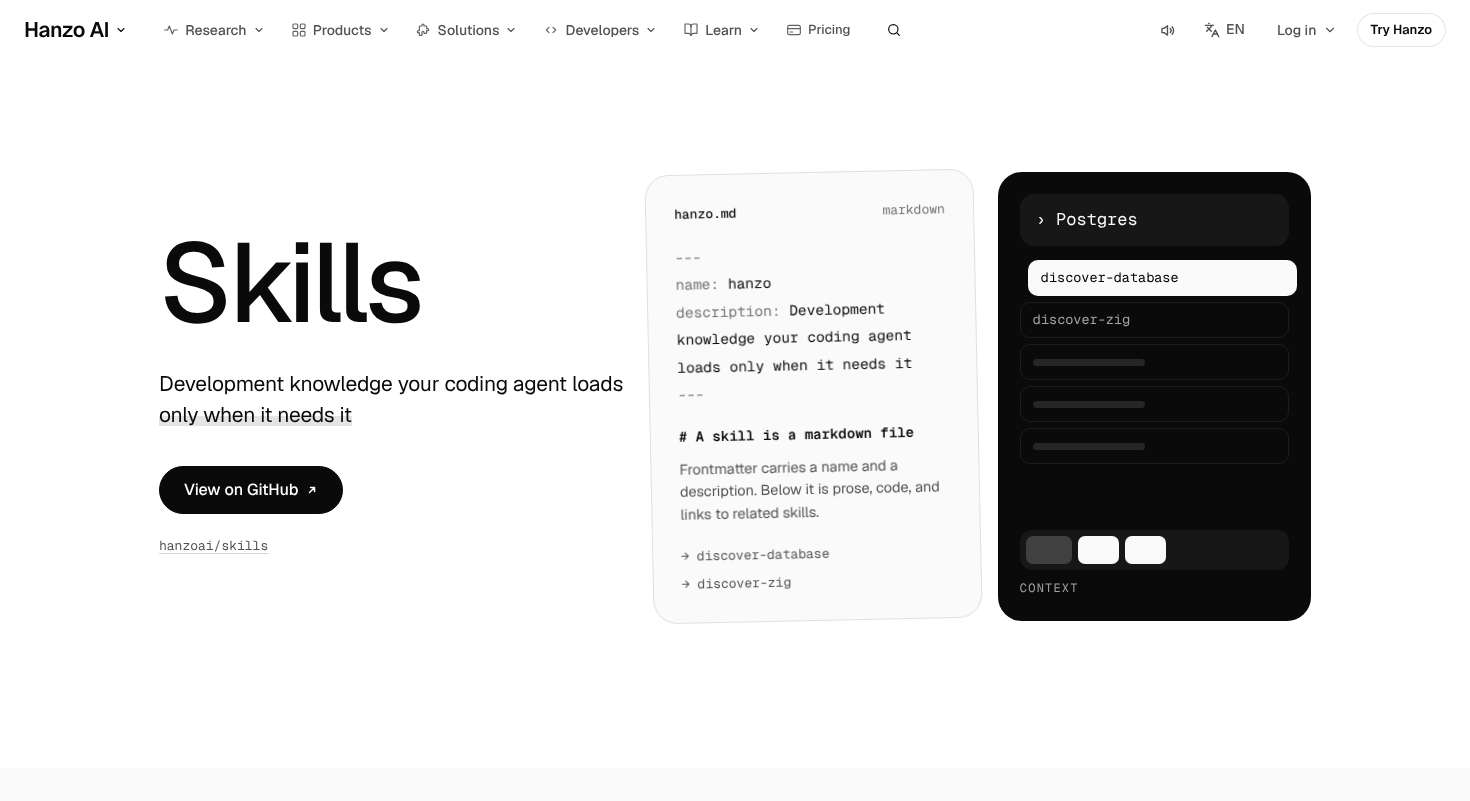
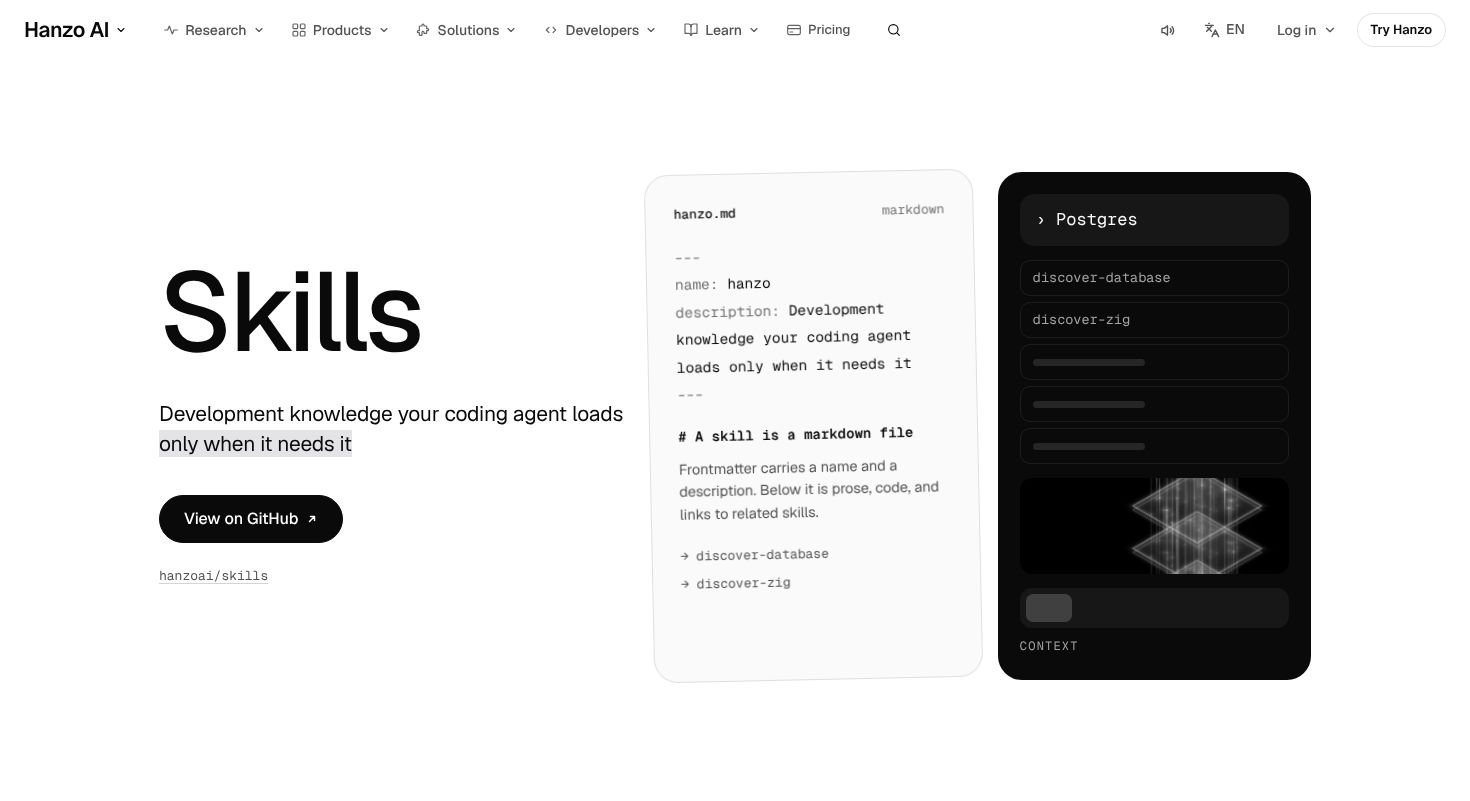
skills: Ready — copycheck missing 0 of 22: sentences unbroken (highlight via CSS Custom Highlight API, sweep kept), install line as written; Hanzo's Kai hero picture restored in the agent panel
Claude-Session: https://claude.ai/code/session_01P5YBdxX2mH7piDf4NGrmPi

diff --git a/components/pages/Skills.jsx b/components/pages/Skills.jsx
@@ -103,6 +103,7 @@ function Wake() {
       <div className="xsk-agent">
         <div className="xsk-say x-mono"><span className="xsk-caret-k">›</span><span ref={typed}>{WAKE[w][0]}</span><b className="xsk-caret" /></div>
         <Shelf lit={phase >= 1 ? gate : null} />
+        <span className="xsk-kai"><img src="/models/kai.webp" alt="" width="1200" height="1500" decoding="async" /></span>
         <Tray pulled={phase >= 2} k={String(w)} />
       </div>
     </div>
@@ -145,7 +146,7 @@ function Hero() {
       <div className="a2-wrap a2-grid xsk-hero-grid">
         <div className="xsk-hero-copy">
           <motion.div className="xsk-h1-set" style={{ scale: settle }}><Lines as="h1" id="xsk-h1" className="a2-display xsk-h1" lines={['Skills']} now /></motion.div>
-          <p className="a2-lede">Development knowledge your coding agent loads <mark>only when it needs it</mark></p>
+          <Para className="a2-lede" parts={['Development knowledge your coding agent loads ', { h: 'only when it needs it' }]} />
           <div className="a2-acts"><A to={GH} className="x-btn solid xsk-ask" data-thumb="View on GitHub" data-cta="skills.hero">View on GitHub<Arw /></A></div>
           <p className="xsk-repo-cap x-mono"><A to={GH} className="xsk-repo">hanzoai/skills</A></p>
         </div>
@@ -181,20 +182,45 @@ function Trade() {
 /* The five points on the stage: the words scroll past on the left, one pinned panel on the right shows each one's object.
    The thread point (Hanzo's "Cross-referenced, not duplicated") lives in the dark room after the stage, told once. */
 const POINTS = [
-  ['A skill is a markdown file', <>Frontmatter carries a name and a description. Below it is prose, code, and links to related skills. <Hl>Nothing to compile, nothing to run</Hl> — you can read one before you trust it.</>],
-  ['Gateway skills do the finding', <>A gateway is a small skill whose whole job is to notice. Say Postgres and discover-database wakes up; say comptime and discover-zig does. <Hl>It pulls the specific files and gets out of the way.</Hl></>],
-  ['Install it in one line', <><code>{CMD}</code> adds the Hanzo skill to your agent, and <Hl>hanzoskills.com/llms.txt lists every other one as plain markdown.</Hl></>],
-  ['Written small on purpose', <>One topic per file, a few hundred lines each. <Hl>Five focused reads cost less than one monolithic guide</Hl>, and you get the five that matter instead of the one that covers everything badly.</>],
-  ['Add your own', <>Drop a markdown file in a category, give it a name and a description, and it joins discovery. <Hl>Your house conventions load the same way the public ones do.</Hl></>],
+  ['A skill is a markdown file', ['Frontmatter carries a name and a description. Below it is prose, code, and links to related skills. ', { h: 'Nothing to compile, nothing to run' }, ' — you can read one before you trust it.']],
+  ['Gateway skills do the finding', ['A gateway is a small skill whose whole job is to notice. Say Postgres and discover-database wakes up; say comptime and discover-zig does. ', { h: 'It pulls the specific files and gets out of the way.' }]],
+  ['Install it in one line', [{ c: CMD }, ' adds the Hanzo skill to your agent, and ', { h: 'hanzoskills.com/llms.txt lists every other one as plain markdown.' }]],
+  ['Written small on purpose', ['One topic per file, a few hundred lines each. ', { h: 'Five focused reads cost less than one monolithic guide' }, ', and you get the five that matter instead of the one that covers everything badly.']],
+  ['Add your own', ['Drop a markdown file in a category, give it a name and a description, and it joins discovery. ', { h: 'Your house conventions load the same way the public ones do.' }]],
 ];
 const NUM = [1, 2, 3, 4, 6]; // Hanzo numbers six points; 05 is the thread room
 const TOTAL = 6;
-const CROSS = ['Cross-referenced, not duplicated', <>Skills link to the skills next to them, so an agent following a thread from API design into rate limiting into Redis <Hl>reads three files and never the same paragraph twice.</Hl></>];
+const CROSS = ['Cross-referenced, not duplicated', ['Skills link to the skills next to them, so an agent following a thread from API design into rate limiting into Redis ', { h: 'reads three files and never the same paragraph twice.' }]];
 
-function Hl({ children }) {
-  const ref = useRef(null);
+/* Hanzo's sentences stay one unbroken run of text (James, 8 Nov: no wording changes, copycheck reads whole lines);
+   the highlight is drawn over the words with the CSS Custom Highlight API instead of wrapping them in elements.
+   It sweeps in left to right once the line is in view; browsers without the API show the words plain. */
+// the build's CSS parser does not know ::highlight() yet, so its three rules are added at runtime, once
+const HL_CSS = '::highlight(xsk-hl){background-color:#e4e4e7;color:#0a0a0a}::highlight(xsk-hl-d){background-color:#404040;color:#fafafa}::highlight(xsk-code){background-color:#f5f5f5;color:#0a0a0a}';
+const reg = (name) => { if (typeof CSS === 'undefined' || !CSS.highlights || typeof Highlight === 'undefined') return null; if (!document.getElementById('xsk-hl-css')) { const st = document.createElement('style'); st.id = 'xsk-hl-css'; st.textContent = HL_CSS; document.head.appendChild(st); } let h = CSS.highlights.get(name); if (!h) { h = new Highlight(); CSS.highlights.set(name, h); } return h; };
+function useHl(ref, marks, name, sweep = true) {
   const seen = useInView(ref, { once: true, amount: 0.5, margin: '0px 0px -15% 0px' });
-  return <mark ref={ref} className={cx('xsk-hl', seen && 'on')}>{children}</mark>;
+  const calm = useReducedMotion();
+  useEffect(() => {
+    const el = ref.current, h = reg(name);
+    if (!el || !h || !marks.length || (sweep && !seen)) return;
+    const texts = [...el.childNodes].filter((n) => n.nodeType === 3);
+    const rs = marks.map((m) => { const n = texts.find((t) => t.data.includes(m)); if (!n) return null; const a = n.data.indexOf(m); if (a < 0) return null; const r = new Range(); try { r.setStart(n, a); r.setEnd(n, sweep && !calm ? a : a + m.length); } catch { return null; } h.add(r); return [r, n, m]; }).filter(Boolean);
+    let raf = 0;
+    if (sweep && !calm) {
+      const t0 = performance.now(), ease = (x) => 1 - Math.pow(1 - x, 4);
+      const step = (t) => { const k = ease(Math.min(1, (t - t0) / 900)); rs.forEach(([r, n, m]) => { const a = n.data.indexOf(m); if (a < 0 || !n.isConnected) return; try { r.setStart(n, a); r.setEnd(n, a + Math.round(m.length * k)); } catch {} }); CSS.highlights.set(name, h); if (k < 1) raf = requestAnimationFrame(step); };
+      raf = requestAnimationFrame(step);
+    }
+    return () => { cancelAnimationFrame(raf); rs.forEach(([r]) => h.delete(r)); };
+  }, [seen, calm, name, sweep]); // eslint-disable-line react-hooks/exhaustive-deps
+}
+function Para({ parts, className, dark }) {
+  const ref = useRef(null);
+  const list = Array.isArray(parts) ? parts : [parts];
+  useHl(ref, list.filter((x) => x && x.h).map((x) => x.h), dark ? 'xsk-hl-d' : 'xsk-hl');
+  useHl(ref, list.filter((x) => x && x.c).map((x) => x.c), 'xsk-code', false);
+  return <p ref={ref} className={className}>{list.map((x) => (typeof x === 'string' ? x : x.h || x.c))}</p>;
 }
 
 /* 01 the frontmatter close up, 02 one gateway pulling its two named files, 03 the install, 04 the trade,
@@ -262,7 +288,7 @@ function Point({ i, t, d, on, onSeen }) {
       <div className="xsk-pt-copy">
         <h2 className="a2-headline" id={'xsk-pt-h' + i}>{t}</h2>
         <p className="a2-kick show xsk-cap">{pad(NUM[i])} / {pad(TOTAL)}</p>
-        <p className="a2-body">{d}</p>
+        <Para className="a2-body" parts={d} />
         {i === 2 && <div className="xsk-cmd"><code className="x-mono">{CMD}</code><Copy text={CMD} /></div>}
       </div>
       <div className={cx('xsk-pt-vis', near && 'on')} aria-hidden="true"><Scene k={i} /></div>
@@ -321,7 +347,7 @@ function Thread() {
         <div className="xsk-thread-copy">
           <Lines id="xsk-thread-h" className="a2-display m xsk-thread-h" lines={[CROSS[0]]} />
           <p className="a2-kick show xsk-cap">{pad(5)} / {pad(TOTAL)}</p>
-          <p className="a2-body xsk-thread-lede">{CROSS[1]}</p>
+          <Para className="a2-body xsk-thread-lede" parts={CROSS[1]} dark />
           <div className="xsk-thread-nav">
           <div className="xsk-steps" role="group" aria-labelledby="xsk-thread-h" onPointerLeave={() => setPeek(-1)}>
             {THREAD.map((t, i) => (

diff --git a/components/pages/Skills.css b/components/pages/Skills.css
@@ -327,3 +327,11 @@ html:not(.js) .xsk-get-done :is(.xsk-gd-out i, .xsk-gd-ok) { transform: none; op
 @keyframes xsk-read { 0%, 100% { opacity: 1; transform: scaleX(1); } 20% { opacity: .35; transform: scaleX(.5); } }
 @keyframes xsk-hl { 0%, 100% { opacity: 1; } 50% { opacity: .45; } }
 @media (hover: hover) { .xsk-get-meta a:hover { color: #d4d4d4; } }
+
+
+/* Hanzo's hero picture (Kai, /models/kai.webp) restored inside the agent panel, between the shelf and the context tray */
+.xsk-kai { flex: 1 1 96px; min-height: 96px; position: relative; overflow: hidden; border-radius: 12px; background: #171717; }
+.xsk-kai img { position: absolute; inset: 0; width: 100%; height: 100%; object-fit: cover; object-position: 50% 40%; animation: xsk-kai 14s cubic-bezier(.4, 0, .2, 1) infinite alternate; }
+@keyframes xsk-kai { from { transform: scale(1.02); } to { transform: scale(1.1) translateY(-2%); } }
+@media (max-width: 899px) { .xsk-hero .xsk-kai { flex-basis: 64px; min-height: 64px; } }
+@media (prefers-reduced-motion: reduce) { .xsk-kai img { animation: none; } }

diff --git a/docs/review/skills.md b/docs/review/skills.md
@@ -1,5 +1,7 @@
 # /skills — James-eye review
 
+Ready: 8 Nov 23:15, copycheck missing 0 of 22 (captured page), Hanzo's images kept. Each of Hanzo's sentences is one unbroken run again (the highlight is drawn over the words with the CSS Custom Highlight API and still sweeps in), the install line reads as Hanzo wrote it, and Hanzo's Kai picture (/models/kai.webp) is back in the hero's agent panel. taste/unique/parity OK (29/29, 2/2); 0 console errors, no overlap at 1470 and 375.
+
 Verdict: 7/10
 First complaint: "The top's lovely, it types Postgres and the right one lights up. But I've just read 'Cross-referenced, not duplicated' with API design, rate limiting, Redis in the panel, and then I get a big black box with the same three files again, and this time there are no words on it at all. What is that box? And everything in it is grey placeholder lines. It looks like a wireframe that hasn't loaded."
 
